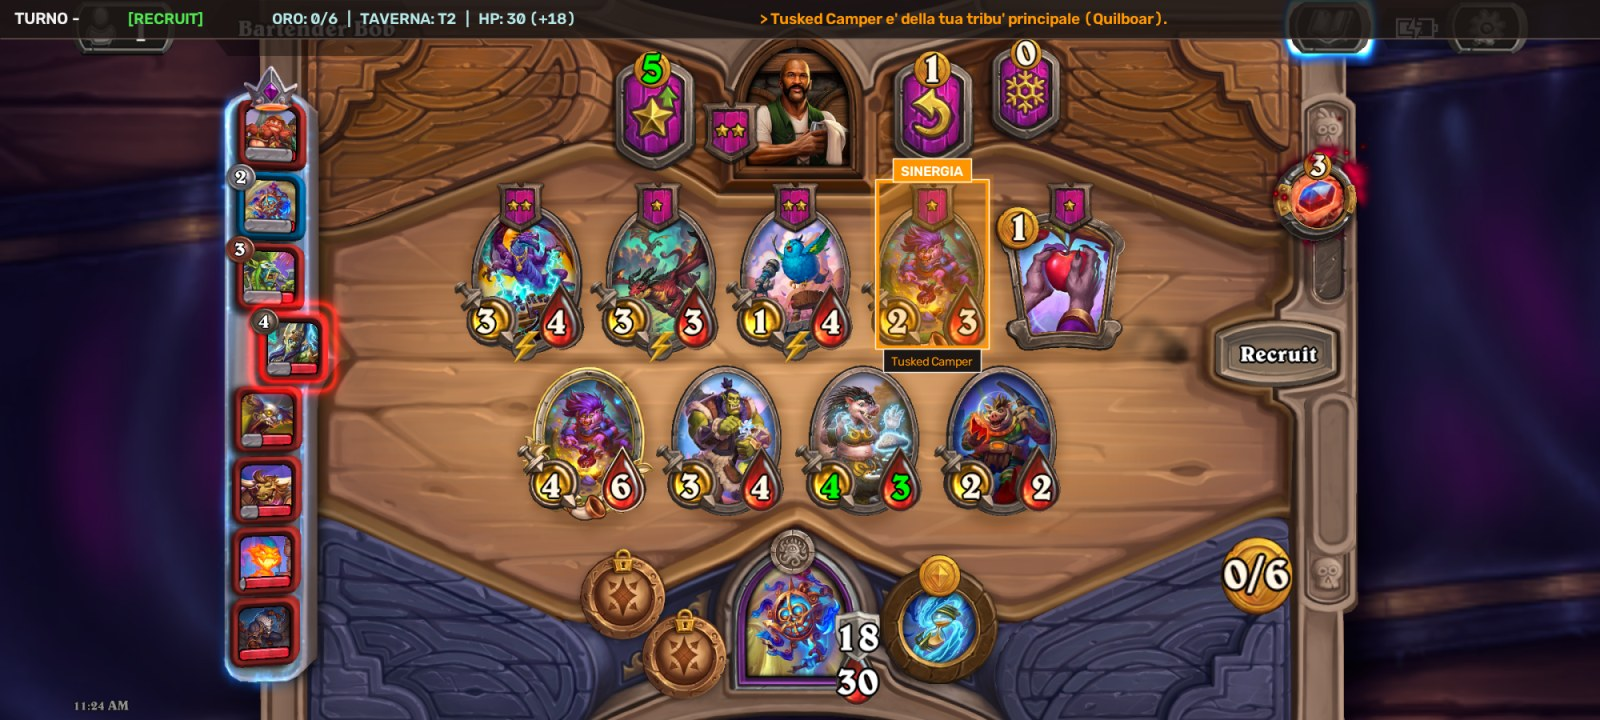
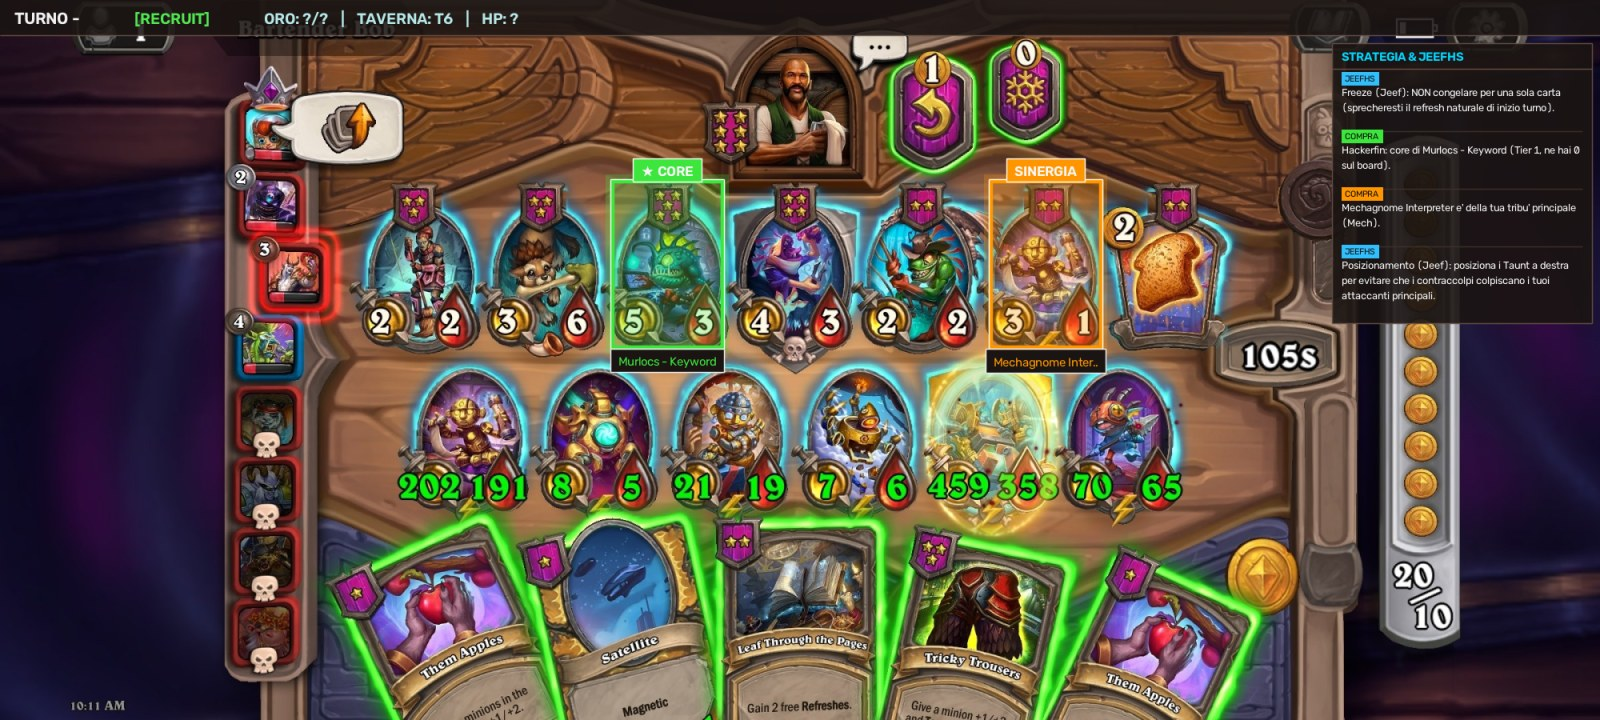
Relocate Jeefhs advice to dedicated right sidebar with word wrapping for full legibility

diff --git a/vision/renderer.py b/vision/renderer.py
@@ -18,8 +18,9 @@ PALETTE = {
     "roll": (220, 130, 240),    # Viola / magenta chiaro per roll
     "freeze": (255, 220, 100),  # Ciano glaciale per freeze
     "default": (70, 220, 70),   # Verde standard
-    "dark_bg": (20, 22, 28),    # Sfondo scuro per badge e banner
-    "text_white": (255, 255, 255),
+    "dark_bg": (18, 20, 26),    # Sfondo scuro per badge e banner
+    "border": (70, 80, 105),    # Bordo pannelli
+    "text_white": (245, 245, 245),
     "text_dark": (15, 15, 15),
 }
 
@@ -39,6 +40,31 @@ def _draw_translucent_rect(
     overlay = img[y1:y2, x1:x2].copy()
     cv2.rectangle(overlay, (0, 0), (x2 - x1, y2 - y1), color, -1)
     cv2.addWeighted(overlay, alpha, img[y1:y2, x1:x2], 1.0 - alpha, 0, img[y1:y2, x1:x2])
+
+
+def _wrap_text(
+    text: str,
+    font: int,
+    scale: float,
+    thickness: int,
+    max_width: int,
+) -> List[str]:
+    """Spezza il testo in righe senza troncare le parole per rimanere entro max_width."""
+    words = text.split(" ")
+    lines = []
+    current_line = []
+    for word in words:
+        test_line = " ".join(current_line + [word])
+        (tw, _), _ = cv2.getTextSize(test_line, font, scale, thickness)
+        if tw <= max_width:
+            current_line.append(word)
+        else:
+            if current_line:
+                lines.append(" ".join(current_line))
+            current_line = [word]
+    if current_line:
+        lines.append(" ".join(current_line))
+    return lines
 
 
 def _draw_badge(
@@ -67,20 +93,20 @@ def _draw_badge(
     cv2.putText(img, text, (cx - tw // 2, y + baseline // 2), font, scale, text_color, thickness, cv2.LINE_AA)
 
 
-def _draw_hud(img: np.ndarray, state: GameState, top_tip: Optional[Tip]) -> None:
-    """Disegna la barra di stato superiore (HUD) con turno, oro, taverna, vita e consiglio principale."""
+def _draw_hud(img: np.ndarray, state: GameState) -> None:
+    """Disegna la barra di stato superiore (HUD) con turno, fase, oro, taverna, vita e armatura."""
     w = img.shape[1]
-    hud_h = 48
-    _draw_translucent_rect(img, (0, 0, w, hud_h), PALETTE["dark_bg"], alpha=0.85)
-    cv2.line(img, (0, hud_h), (w, hud_h), (80, 90, 110), 1, cv2.LINE_AA)
+    hud_h = 44
+    _draw_translucent_rect(img, (0, 0, w, hud_h), PALETTE["dark_bg"], alpha=0.88)
+    cv2.line(img, (0, hud_h), (w, hud_h), PALETTE["border"], 1, cv2.LINE_AA)
 
     font = cv2.FONT_HERSHEY_SIMPLEX
     # Informazioni a sinistra: Turno, Fase
     turn_str = f"TURNO {state.turn}" if state.turn else "TURNO -"
     phase_str = state.phase.upper()
     phase_col = (80, 230, 80) if state.phase == "recruit" else (70, 70, 240)
-    cv2.putText(img, turn_str, (18, 30), font, 0.7, (240, 240, 240), 2, cv2.LINE_AA)
-    cv2.putText(img, f"[{phase_str}]", (160, 30), font, 0.65, phase_col, 2, cv2.LINE_AA)
+    cv2.putText(img, turn_str, (18, 30), font, 0.72, (240, 240, 240), 2, cv2.LINE_AA)
+    cv2.putText(img, f"[{phase_str}]", (168, 30), font, 0.65, phase_col, 2, cv2.LINE_AA)
 
     # Informazioni al centro: Oro, Taverna, Vita
     gold_str = f"ORO: {state.gold if state.gold is not None else '?'}/{state.max_gold if state.max_gold is not None else '?'}"
@@ -89,17 +115,96 @@ def _draw_hud(img: np.ndarray, state: GameState, top_tip: Optional[Tip]) -> None
     if state.hero_armor:
         health_str += f" (+{state.hero_armor})"
 
-    stats_str = f"{gold_str}   |   {tavern_str}   |   {health_str}"
-    cv2.putText(img, stats_str, (340, 30), font, 0.65, (230, 230, 180), 2, cv2.LINE_AA)
+    stats_str = f"{gold_str}    |    {tavern_str}    |    {health_str}"
+    cv2.putText(img, stats_str, (330, 30), font, 0.65, (230, 230, 180), 2, cv2.LINE_AA)
 
-    # Consiglio principale sintetico a destra
-    if top_tip:
-        rec_color = PALETTE.get(top_tip.role, PALETTE["default"])
-        # Tronca il testo per la barra superiore se troppo lungo
-        display_text = top_tip.text
-        if len(display_text) > 75:
-            display_text = display_text[:72] + "..."
-        cv2.putText(img, f"> {display_text}", (950, 30), font, 0.65, rec_color, 2, cv2.LINE_AA)
+
+def _draw_sidebar_tips(img: np.ndarray, tips: List[Tip]) -> None:
+    """Disegna il pannello dei consigli sulla destra dello schermo, con testi completi a capo senza troncature."""
+    if not tips:
+        return
+
+    x = 1665
+    y = 54
+    w = 325
+    font = cv2.FONT_HERSHEY_SIMPLEX
+    scale = 0.44
+    thickness = 1
+    line_h = 19
+    pad_x = 12
+    max_text_w = w - 2 * pad_x
+
+    # Pre-calcola le righe per ogni consiglio attivo (mostra i primi 4 o 5 più rilevanti)
+    tip_blocks = []
+    total_h = 40  # Header bar
+    for t in tips[:5]:
+        if "Jeef" in t.text or "curva" in t.text.lower():
+            tag = "JEEFHS"
+        elif t.action == "UPGRADE":
+            tag = "TAVERNA"
+        elif t.action == "FREEZE":
+            tag = "FREEZE"
+        elif t.action == "HOLD":
+            tag = "NO ROLL"
+        elif t.action == "BUY":
+            tag = "COMPRA"
+        elif "Posizionamento" in t.text:
+            tag = "POSIZIONE"
+        else:
+            tag = "INFO"
+
+        lines = _wrap_text(t.text, font, scale, thickness, max_text_w)
+        block_h = 16 + len(lines) * line_h + 8
+        tip_blocks.append((tag, lines, t))
+        total_h += block_h
+
+    # Limita l'altezza massima per non uscire dallo schermo
+    total_h = min(total_h, img.shape[0] - y - 15)
+
+    # Disegna sfondo pannello semitrasparente
+    _draw_translucent_rect(img, (x, y, w, total_h), PALETTE["dark_bg"], alpha=0.90)
+    cv2.rectangle(img, (x, y), (x + w, y + total_h), PALETTE["border"], 1, cv2.LINE_AA)
+
+    # Intestazione pannello
+    cv2.line(img, (x, y + 32), (x + w, y + 32), PALETTE["border"], 1, cv2.LINE_AA)
+    cv2.putText(img, "STRATEGIA & JEEFHS", (x + pad_x, y + 22), font, 0.52, (255, 215, 0), 2, cv2.LINE_AA)
+
+    cur_y = y + 48
+    for i, (tag, lines, t) in enumerate(tip_blocks):
+        if cur_y + len(lines) * line_h > y + total_h:
+            break
+
+        # Colore del tag
+        if t.action == "UPGRADE":
+            tag_col = PALETTE["upgrade"]
+        elif t.action == "FREEZE":
+            tag_col = PALETTE["freeze"]
+        elif t.action == "HOLD":
+            tag_col = (0, 140, 255)
+        elif tag == "JEEFHS":
+            tag_col = (250, 190, 50)
+        else:
+            tag_col = PALETTE.get(t.role, PALETTE["default"])
+
+        # Tag pill
+        (tw, _), _ = cv2.getTextSize(tag, font, 0.38, 1)
+        pill_w = tw + 8
+        cv2.rectangle(img, (x + pad_x, cur_y - 12), (x + pad_x + pill_w, cur_y + 4), tag_col, -1)
+        cv2.putText(img, tag, (x + pad_x + 4, cur_y), font, 0.38, (15, 15, 15), 1, cv2.LINE_AA)
+        cur_y += 18
+
+        # Linee di testo del consiglio a capo
+        for line in lines:
+            if cur_y >= y + total_h - 4:
+                break
+            cv2.putText(img, line, (x + pad_x, cur_y), font, scale, PALETTE["text_white"], thickness, cv2.LINE_AA)
+            cur_y += line_h
+
+        cur_y += 6
+        # Divisore sottile tra consigli
+        if i < len(tip_blocks) - 1 and cur_y < y + total_h - 14:
+            cv2.line(img, (x + pad_x, cur_y), (x + w - pad_x, cur_y), (42, 48, 62), 1, cv2.LINE_AA)
+            cur_y += 10
 
 
 def draw_overlay(
@@ -111,11 +216,11 @@ def draw_overlay(
     """Disegna tutti gli elementi grafici dell'advisor sopra una copia del frame."""
     out = frame.copy()
 
-    # 1. Trova il consiglio principale
-    top_tip = tips[0] if tips else None
+    # 1. Barra superiore HUD (turno, fase, oro, taverna, vita)
+    _draw_hud(out, state)
 
-    # 2. Barra superiore HUD
-    _draw_hud(out, state, top_tip)
+    # 2. Pannello laterale destro con i consigli e le strategie di Jeefhs leggibili al 100%
+    _draw_sidebar_tips(out, tips)
 
     # 3. Mappa dei consigli sullo shop per indice carta
     shop_tips_by_idx = {}
